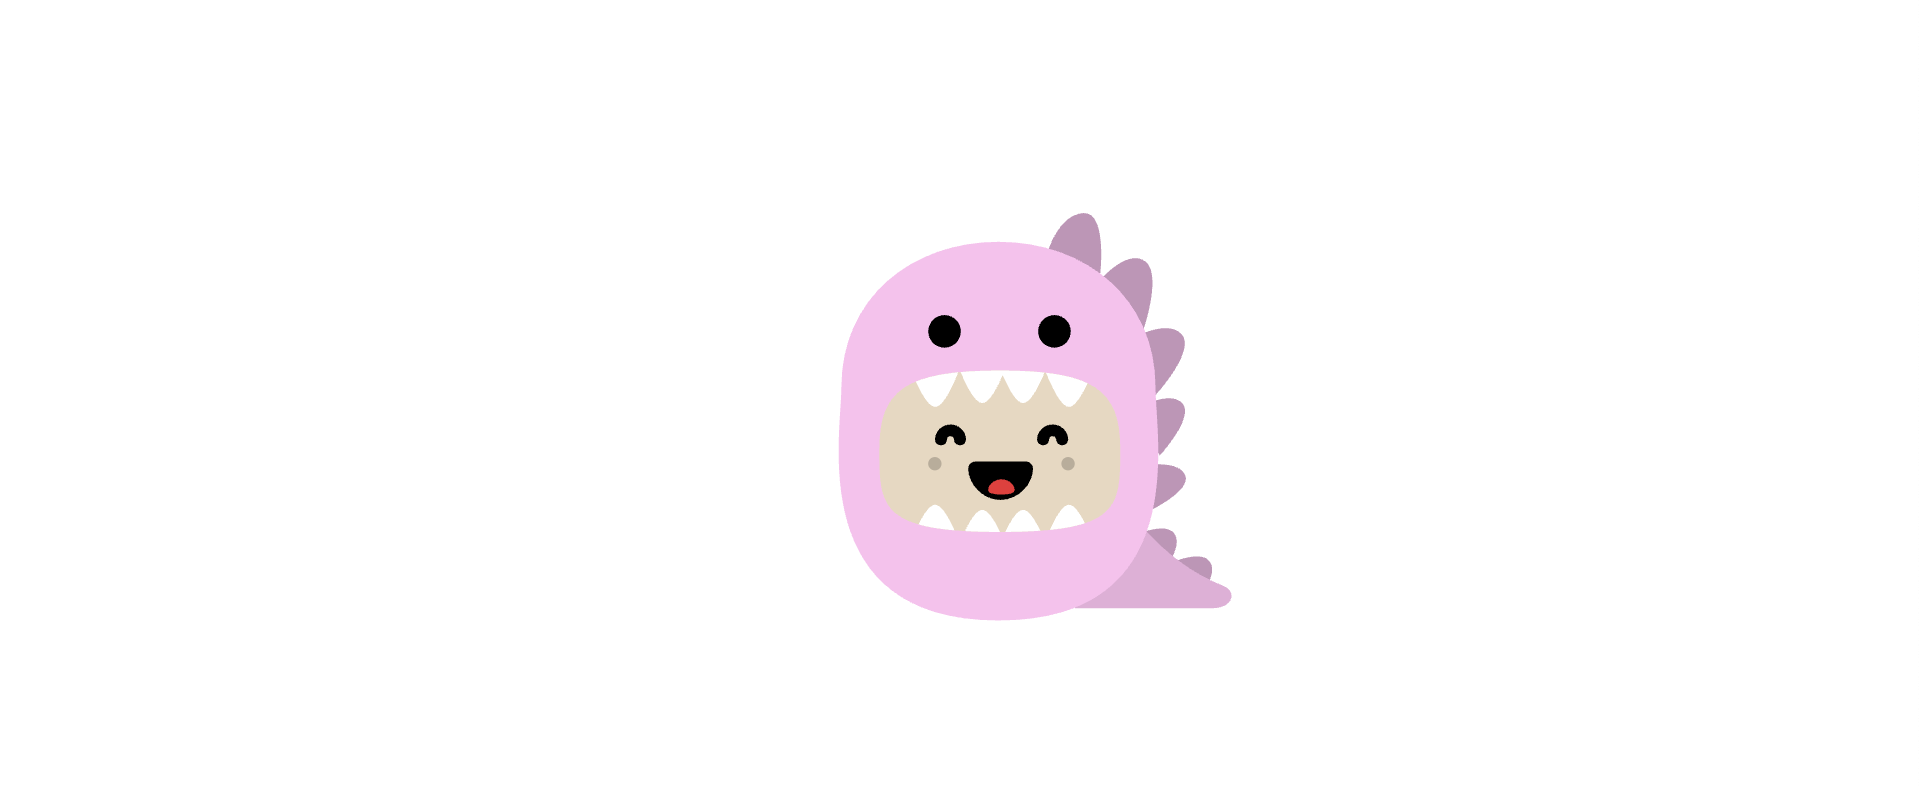
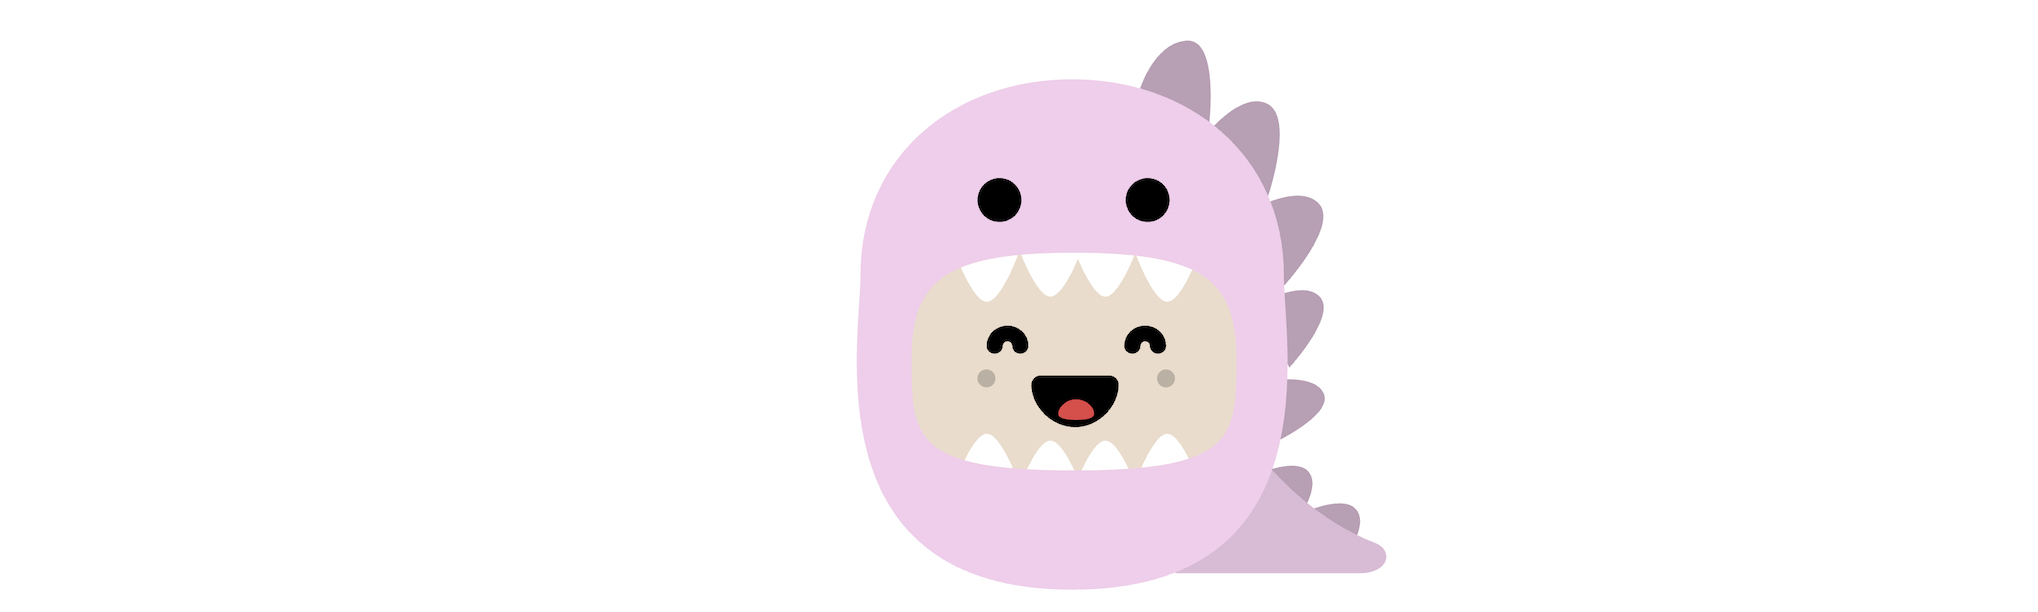
fix: new image for README

Changed region(s): [[0.3997, 0.0621, 0.6764, 0.9624]]

diff --git a/src/routes/utils/IllustPage.svelte b/src/routes/utils/IllustPage.svelte
@@ -124,8 +124,8 @@
   const updateIllust = (name: string)=> {
     kawaiiModal.toggle();
     selectedIllust = name;
-    console.log('name', name)
   }
+  
   $effect(() => {
     builderExpand = builder.isOpen;
   });

diff --git a/README.md b/README.md
@@ -6,7 +6,7 @@
 Svelte Kawaii is a Svelte port of [React Kawaii](https://react-kawaii.vercel.app/), offering cute SVG illustrations to add adorable characters to your Svelte applications. A simple way to bring some cuteness to your UI.
 
 <p align="center">
-  <img src="https://raw.githubusercontent.com/shinokada/svelte-kawaii/refs/heads/main/static/images/svelte-kawaii@2x.png"alt="Svelte Kawaii">
+  <img src="https://raw.githubusercontent.com/shinokada/svelte-kawaii/refs/heads/main/static/images/svelte-kawaii.png"alt="Svelte Kawaii">
 </p>
 
 ## Installation
